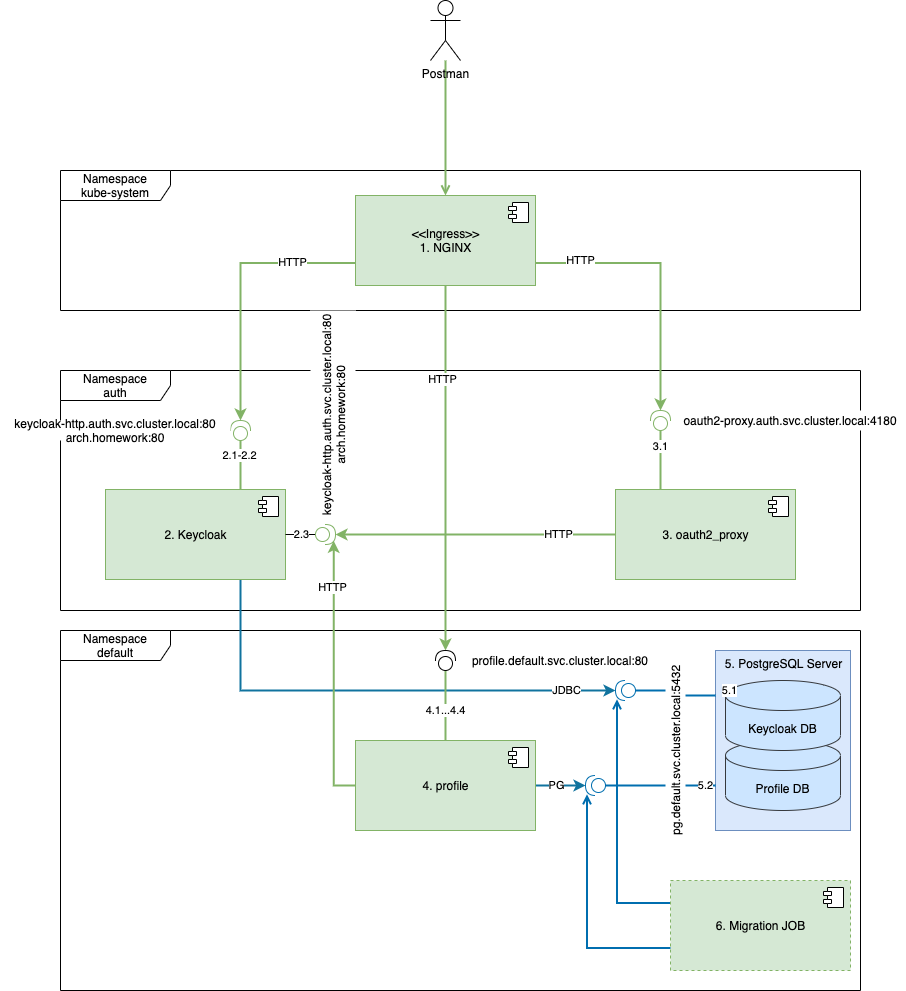
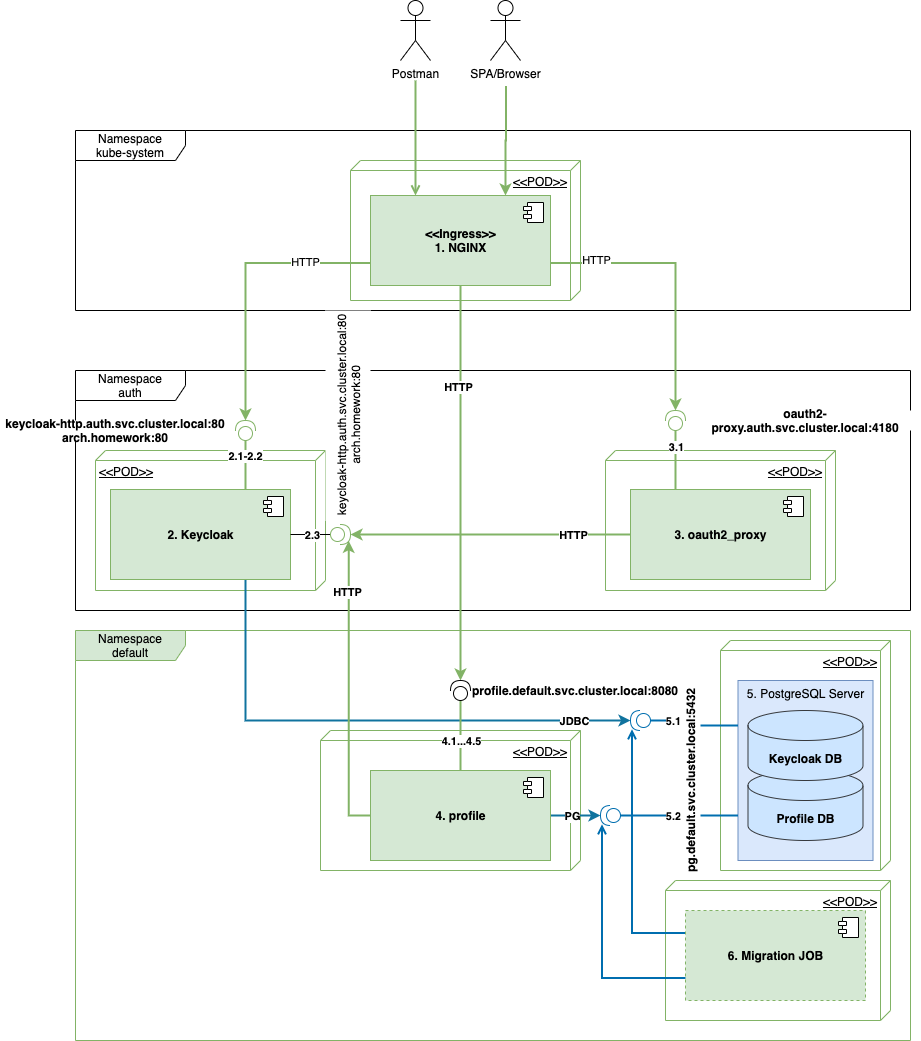
uml

Changed region(s): [[0.0, 0.0, 0.989, 1.0], [0.0618, 0.1211, 0.2163, 0.3027]]

diff --git a/otus2.11/readme.md b/otus2.11/readme.md
@@ -14,13 +14,18 @@
 | № | Серивис | № | Интерфейс | Потребители |Описание интерфейса |
 |---|---------|---|-----------|-------------|--------------------|
 |1|ingress(NGINX)|1.1|arch.homework/auth/|Postman, SPA, Browser|Точка доступа к keycloak для администрирования и получения токенов|
-|1|ingress(NGINX)|1.2|arch.homework/profile/api/v1/|Postman, SPA|Точка доступа к сервису упревления портфелями|
+|1|ingress(NGINX)|1.2|arch.homework/profile/api/v1/|Postman, SPA|Точка доступа к сервису упревления портфелями profile.default.svc.cluster.local:8080|
 |2|Keycloak|2.1|POST /auth/realms/master/protocol/openid-connect/token|Postman, oauth2_proxy|REST API Получение токена пользователя keycloak (implicit flow для posman, code flow  для oauth2_proxy)|
 |2|Keycloak|2.2|POST /auth/admin/realms/portfolio/users|Postman|REST API регистрации нового пользователя|
 |2|Keycloak|2.3|GET /auth/realms/portfolio|profile, oauth2_proxy|Сервис получения конфигурации  OpenID Connet клиента|
 |3|oauth2_proxy|3.1|GET /oauth2/auth|ingress(NGINX)|Сервис проверки  JWT  токена или получения JWT токена по сессии oauth2_proxy|
+|4|profile|4.1|GET /login|Postman, SPA|Получение данных о пользователе по его токену или сессии oauth2_proxy|
+|4|profile|4.1-4.5|GET /portfolios<br/>GET /portfolios/{id}<br/>POST /portfolios<br/>PUT /portfolios/{id}|Postman, SPA|CRUD для работы с портфелями|
+|5|pg|5.1|postgres://keycloak:otus-pg.default.svc.cluster.local:5432/keycloak?sslmode=disable|Keycloak|PostgreSQL БД для Keycloak|
+|5|pg|5.2|postgres://profile:otus-pg.default.svc.cluster.local:5432/profile?sslmode=disable|profile|PostgreSQL БД для profile|
+|6|migration||||Джобы миграции БД|
 
-### Интеграционные сценарии
+### Интеграционные сценарии ###
 
 **Целевая авторизация для Single Page Application**
 
